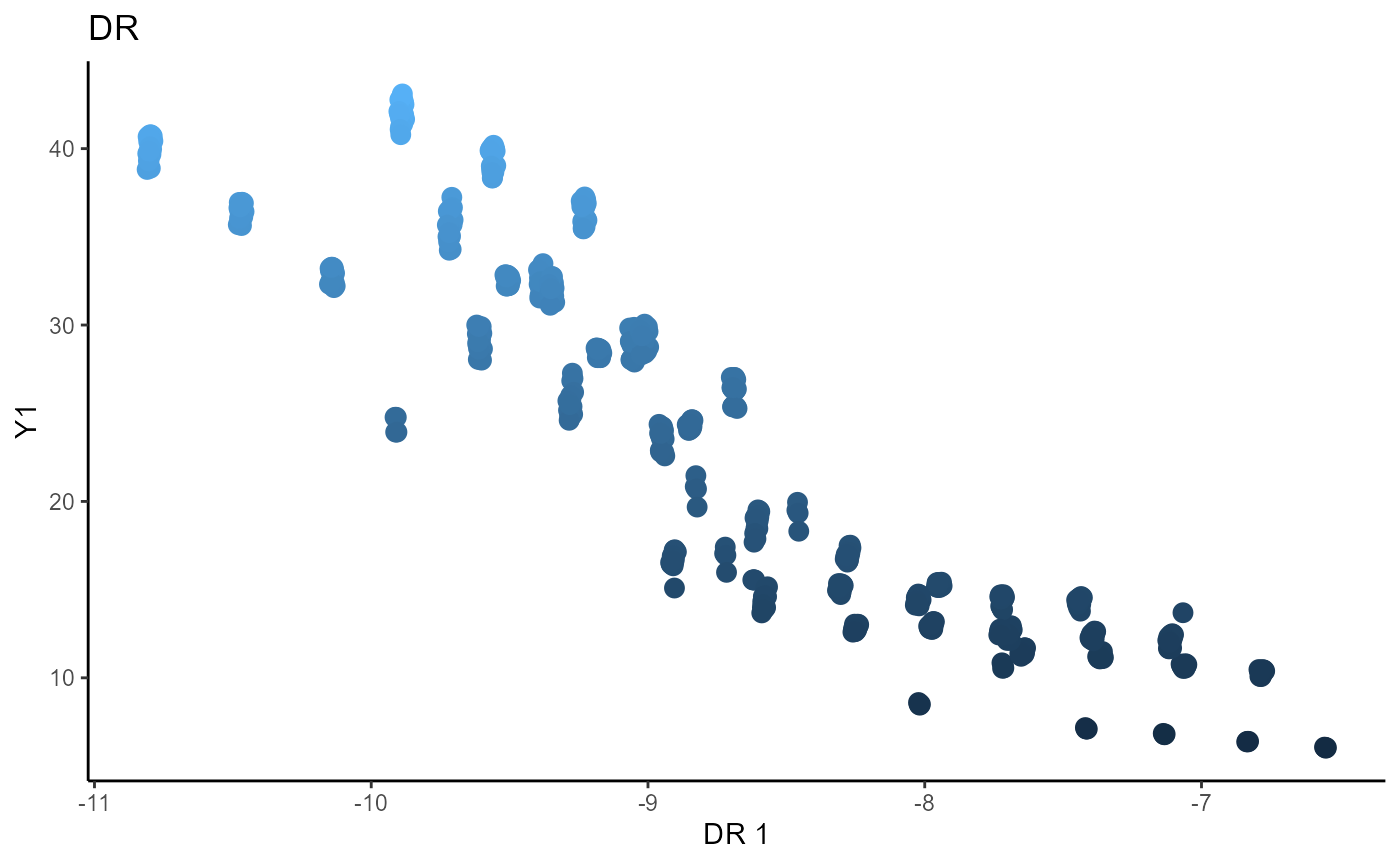
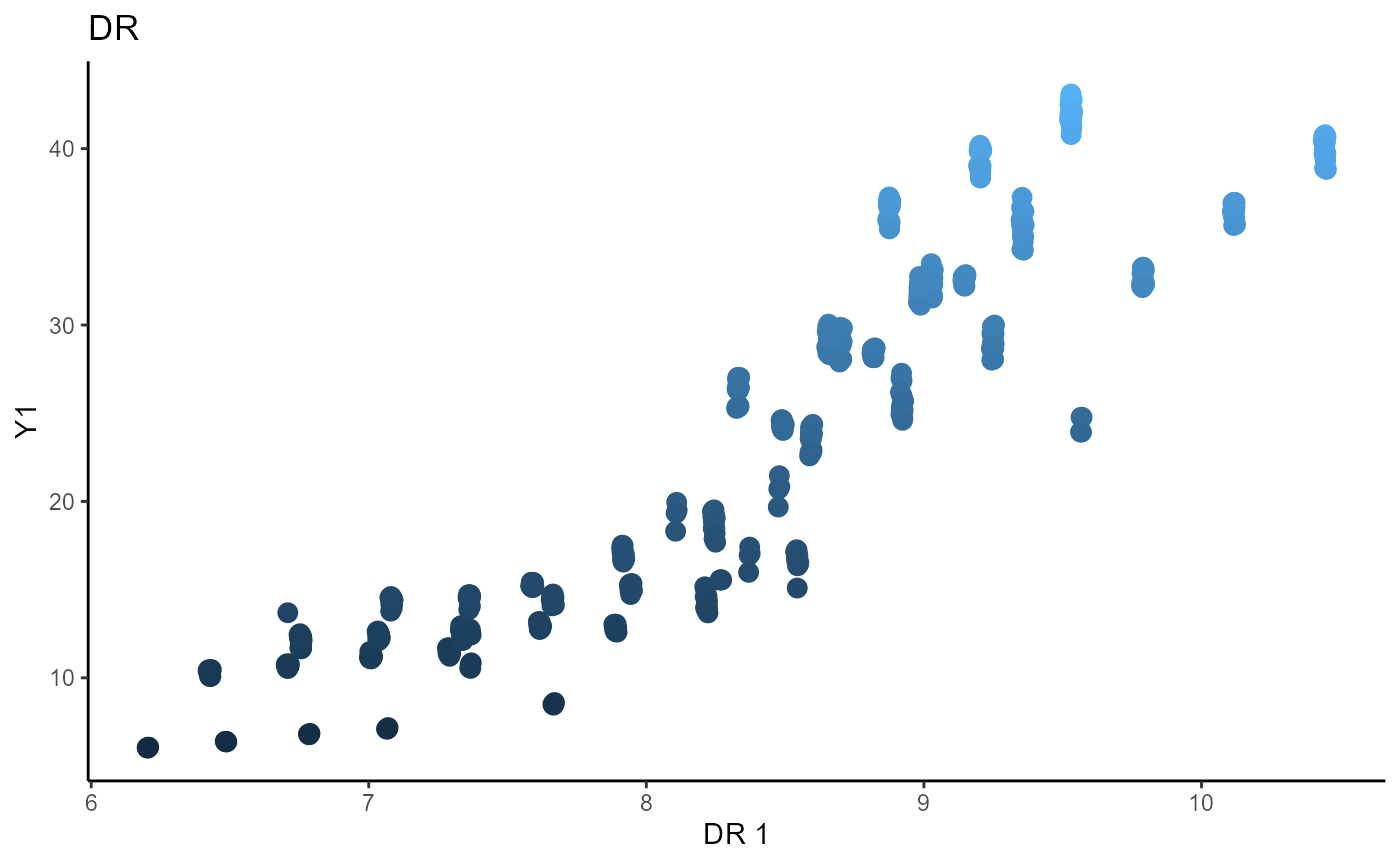
updating images

diff --git a/docs/articles/sdr_cat.html b/docs/articles/sdr_cat.html
@@ -200,53 +200,60 @@
 <div class="section level3">
 <h3 id="outer-product-of-canonical-gradients-opcg">Outer Product of Canonical Gradients (OPCG)<a class="anchor" aria-label="anchor" href="#outer-product-of-canonical-gradients-opcg"></a>
 </h3>
+<div class="hidden">
+<div class="sourceCode" id="cb6"><pre class="downlit sourceCode r">
+<code class="sourceCode R"><span class="co"># OPG Estimate </span>
+
+<span class="fu"><a href="https://rdrr.io/r/base/load.html" class="external-link">load</a></span><span class="op">(</span><span class="st">'opcg_pendigit_made_est.Rdata'</span><span class="op">)</span>
+<span class="va">b_hat_opcg1</span> <span class="op">=</span> <span class="va">B_hat_opcg</span>
+<span class="va">b_hat_made1</span> <span class="op">=</span> <span class="va">B_hat_made</span></code></pre></div>
+</div>
 <p>For OPCG, we use a Gaussian kernel for the local linear weights and standardize the predictors so that the kernel choice is more appropriate. The bandwidth is set to <span class="math inline">\(1.42\)</span> using the Tuning method for OPCG proposed in the paper. We parallelize the computation to make OPCG relatively competitive with the inverse methods in terms of computation. For convenience, we set <span class="math inline">\(d=9\)</span>; this has no effect on the estimation. The code is not run due to the compiling speed for this site.</p>
 <!-- ![](../man/figures/cat/ex1_opcg1.png) -->
 <!-- ![](../man/figures/cat/ex1_opcg2.png) -->
 <!-- ![](../man/figures/cat/ex1_opcg3.png) -->
-<div class="sourceCode" id="cb6"><pre class="downlit sourceCode r">
+<div class="sourceCode" id="cb7"><pre class="downlit sourceCode r">
 <code class="sourceCode R"><span class="co"># OPG Estimate </span>
 
  
-<span class="co"># X1_std=(sapply(1:dim(X1)[2], FUN= function(j)</span>
-<span class="co">#   center_cpp(X1[,j], NULL) ) )%*%matpower_cpp(cov((X1)) , -1/2);</span>
-<span class="co"># </span>
-<span class="co"># X1_test_std=(sapply(1:dim(X1_test)[2], FUN= function(j)</span>
-<span class="co">#   center_cpp(X1_test[,j], NULL) ) )%*%matpower_cpp(cov((X1_test)) , -1/2);</span>
-<span class="co"># </span>
-<span class="co"># </span>
-<span class="co"># </span>
+<span class="va">X1_std</span><span class="op">=</span><span class="op">(</span><span class="fu"><a href="https://rdrr.io/r/base/lapply.html" class="external-link">sapply</a></span><span class="op">(</span><span class="fl">1</span><span class="op">:</span><span class="fu"><a href="https://rdrr.io/r/base/dim.html" class="external-link">dim</a></span><span class="op">(</span><span class="va">X1</span><span class="op">)</span><span class="op">[</span><span class="fl">2</span><span class="op">]</span>, FUN<span class="op">=</span> <span class="kw">function</span><span class="op">(</span><span class="va">j</span><span class="op">)</span>
+  <span class="fu">center_cpp</span><span class="op">(</span><span class="va">X1</span><span class="op">[</span>,<span class="va">j</span><span class="op">]</span>, <span class="cn">NULL</span><span class="op">)</span> <span class="op">)</span> <span class="op">)</span><span class="op"><a href="https://rdrr.io/r/base/matmult.html" class="external-link">%*%</a></span><span class="fu">matpower_cpp</span><span class="op">(</span><span class="fu"><a href="https://rdrr.io/r/stats/cor.html" class="external-link">cov</a></span><span class="op">(</span><span class="op">(</span><span class="va">X1</span><span class="op">)</span><span class="op">)</span> , <span class="op">-</span><span class="fl">1</span><span class="op">/</span><span class="fl">2</span><span class="op">)</span>;
+
+<span class="va">X1_test_std</span><span class="op">=</span><span class="op">(</span><span class="fu"><a href="https://rdrr.io/r/base/lapply.html" class="external-link">sapply</a></span><span class="op">(</span><span class="fl">1</span><span class="op">:</span><span class="fu"><a href="https://rdrr.io/r/base/dim.html" class="external-link">dim</a></span><span class="op">(</span><span class="va">X1_test</span><span class="op">)</span><span class="op">[</span><span class="fl">2</span><span class="op">]</span>, FUN<span class="op">=</span> <span class="kw">function</span><span class="op">(</span><span class="va">j</span><span class="op">)</span>
+  <span class="fu">center_cpp</span><span class="op">(</span><span class="va">X1_test</span><span class="op">[</span>,<span class="va">j</span><span class="op">]</span>, <span class="cn">NULL</span><span class="op">)</span> <span class="op">)</span> <span class="op">)</span><span class="op"><a href="https://rdrr.io/r/base/matmult.html" class="external-link">%*%</a></span><span class="fu">matpower_cpp</span><span class="op">(</span><span class="fu"><a href="https://rdrr.io/r/stats/cor.html" class="external-link">cov</a></span><span class="op">(</span><span class="op">(</span><span class="va">X1_test</span><span class="op">)</span><span class="op">)</span> , <span class="op">-</span><span class="fl">1</span><span class="op">/</span><span class="fl">2</span><span class="op">)</span>;
+ 
 <span class="co"># b_hat_opcg1 = opcg(x=X1_std, y=Y1, bw = 1.42, d=9, ytype = "cat",</span>
 <span class="co">#                   method= "cg", parallelize = T )</span>
 <span class="co"># </span>
-<span class="co"># opcg_plot1_1=linearsdr:::ggplot_fsdr(Y1_test, t((X1_test_std)%*%b_hat_opcg1[,c(1,2)]),</span>
-<span class="co">#                                      y_on_axis=F,</span>
-<span class="co">#                                      ytype="multinomial",</span>
-<span class="co">#                                      h_lab='OPCG 1', v_lab='OPCG 2',</span>
-<span class="co">#                                      main_lab= paste0('OPCG'), size=2.5)</span>
-<span class="co"># </span>
-<span class="co"># opcg_plot1_2=linearsdr:::ggplot_fsdr(Y1_test, t((X1_test_std)%*%b_hat_opcg1[,c(2,3)]),</span>
-<span class="co">#                                      y_on_axis=F,</span>
-<span class="co">#                                       ytype="multinomial",</span>
-<span class="co">#                                       h_lab='OPCG 2', v_lab='OPCG 3',</span>
-<span class="co">#                                       main_lab= paste0('OPCG'), size=2.5)</span>
-<span class="co"># </span>
-<span class="co"># opcg_plot1_3=linearsdr:::ggplot_fsdr(Y1_test, t((X1_test_std)%*%b_hat_opcg1[,c(1,3)]),</span>
-<span class="co">#                                      y_on_axis=F,</span>
-<span class="co">#                                       ytype="multinomial",</span>
-<span class="co">#                                       h_lab='OPCG 1', v_lab='OPCG 3',</span>
-<span class="co">#                                       main_lab= paste0('OPCG'), size=2.5)</span>
-<span class="co"># </span>
+
+<span class="fu">linearsdr</span><span class="fu">:::</span><span class="fu">ggplot_fsdr</span><span class="op">(</span><span class="va">Y1_test</span>, <span class="fu"><a href="https://rdrr.io/r/base/t.html" class="external-link">t</a></span><span class="op">(</span><span class="op">(</span><span class="va">X1_test_std</span><span class="op">)</span><span class="op"><a href="https://rdrr.io/r/base/matmult.html" class="external-link">%*%</a></span><span class="va">b_hat_opcg1</span><span class="op">[</span>,<span class="fu"><a href="https://rdrr.io/r/base/c.html" class="external-link">c</a></span><span class="op">(</span><span class="fl">1</span>,<span class="fl">2</span><span class="op">)</span><span class="op">]</span><span class="op">)</span>,
+                                     y_on_axis<span class="op">=</span><span class="cn">F</span>,
+                                     ytype<span class="op">=</span><span class="st">"multinomial"</span>,
+                                     h_lab<span class="op">=</span><span class="st">'OPCG 1'</span>, v_lab<span class="op">=</span><span class="st">'OPCG 2'</span>,
+                                     main_lab<span class="op">=</span> <span class="fu"><a href="https://rdrr.io/r/base/paste.html" class="external-link">paste0</a></span><span class="op">(</span><span class="st">'OPCG'</span><span class="op">)</span>, size<span class="op">=</span><span class="fl">2.5</span><span class="op">)</span>
+
+<span class="fu">linearsdr</span><span class="fu">:::</span><span class="fu">ggplot_fsdr</span><span class="op">(</span><span class="va">Y1_test</span>, <span class="fu"><a href="https://rdrr.io/r/base/t.html" class="external-link">t</a></span><span class="op">(</span><span class="op">(</span><span class="va">X1_test_std</span><span class="op">)</span><span class="op"><a href="https://rdrr.io/r/base/matmult.html" class="external-link">%*%</a></span><span class="va">b_hat_opcg1</span><span class="op">[</span>,<span class="fu"><a href="https://rdrr.io/r/base/c.html" class="external-link">c</a></span><span class="op">(</span><span class="fl">2</span>,<span class="fl">3</span><span class="op">)</span><span class="op">]</span><span class="op">)</span>,
+                                     y_on_axis<span class="op">=</span><span class="cn">F</span>,
+                                      ytype<span class="op">=</span><span class="st">"multinomial"</span>,
+                                      h_lab<span class="op">=</span><span class="st">'OPCG 2'</span>, v_lab<span class="op">=</span><span class="st">'OPCG 3'</span>,
+                                      main_lab<span class="op">=</span> <span class="fu"><a href="https://rdrr.io/r/base/paste.html" class="external-link">paste0</a></span><span class="op">(</span><span class="st">'OPCG'</span><span class="op">)</span>, size<span class="op">=</span><span class="fl">2.5</span><span class="op">)</span>
+
+<span class="fu">linearsdr</span><span class="fu">:::</span><span class="fu">ggplot_fsdr</span><span class="op">(</span><span class="va">Y1_test</span>, <span class="fu"><a href="https://rdrr.io/r/base/t.html" class="external-link">t</a></span><span class="op">(</span><span class="op">(</span><span class="va">X1_test_std</span><span class="op">)</span><span class="op"><a href="https://rdrr.io/r/base/matmult.html" class="external-link">%*%</a></span><span class="va">b_hat_opcg1</span><span class="op">[</span>,<span class="fu"><a href="https://rdrr.io/r/base/c.html" class="external-link">c</a></span><span class="op">(</span><span class="fl">1</span>,<span class="fl">3</span><span class="op">)</span><span class="op">]</span><span class="op">)</span>,
+                                     y_on_axis<span class="op">=</span><span class="cn">F</span>,
+                                      ytype<span class="op">=</span><span class="st">"multinomial"</span>,
+                                      h_lab<span class="op">=</span><span class="st">'OPCG 1'</span>, v_lab<span class="op">=</span><span class="st">'OPCG 3'</span>,
+                                      main_lab<span class="op">=</span> <span class="fu"><a href="https://rdrr.io/r/base/paste.html" class="external-link">paste0</a></span><span class="op">(</span><span class="st">'OPCG'</span><span class="op">)</span>, size<span class="op">=</span><span class="fl">2.5</span><span class="op">)</span>
+
 <span class="co"># linearsdr:::save_sdr_plot(opcg_plot1_1,</span>
 <span class="co">#                           filename = paste0('../man/figures/cat/ex1_opcg1.png'),</span>
 <span class="co">#                           width = 800, height = 450, units = "px", pointsize = 12,</span>
 <span class="co">#                           bg = "white",  res = 125)</span>
-
-
-<span class="fu">knitr</span><span class="fu">::</span><span class="fu"><a href="https://rdrr.io/pkg/knitr/man/include_graphics.html" class="external-link">include_graphics</a></span><span class="op">(</span><span class="st">'../man/figures/cat/ex1_opcg1.png'</span><span class="op">)</span>
-<span class="fu">knitr</span><span class="fu">::</span><span class="fu"><a href="https://rdrr.io/pkg/knitr/man/include_graphics.html" class="external-link">include_graphics</a></span><span class="op">(</span><span class="st">'../man/figures/cat/ex1_opcg2.png'</span><span class="op">)</span>
-<span class="fu">knitr</span><span class="fu">::</span><span class="fu"><a href="https://rdrr.io/pkg/knitr/man/include_graphics.html" class="external-link">include_graphics</a></span><span class="op">(</span><span class="st">'../man/figures/cat/ex1_opcg3.png'</span><span class="op">)</span></code></pre></div>
-<p><img src="../reference/figures/cat/ex1_opcg1.png" width="100%"><img src="../reference/figures/cat/ex1_opcg2.png" width="100%"><img src="../reference/figures/cat/ex1_opcg3.png" width="100%"></p>
+<span class="co"># </span>
+<span class="co"># </span>
+<span class="co"># knitr::include_graphics('../man/figures/cat/ex1_opcg1.png')</span>
+<span class="co"># knitr::include_graphics('../man/figures/cat/ex1_opcg2.png')</span>
+<span class="co"># knitr::include_graphics('../man/figures/cat/ex1_opcg3.png')</span></code></pre></div>
+<p><img src="sdr_cat_files/figure-html/unnamed-chunk-7-1.png" width="700"><img src="sdr_cat_files/figure-html/unnamed-chunk-7-2.png" width="700"><img src="sdr_cat_files/figure-html/unnamed-chunk-7-3.png" width="700"></p>
 </div>
 <div class="section level3">
 <h3 id="minimum-average-variance-estimation-mave">Minimum Average Variance Estimation (MAVE)<a class="anchor" aria-label="anchor" href="#minimum-average-variance-estimation-mave"></a>
@@ -255,7 +262,7 @@
 <!-- ![](../man/figures/cat/ex1_made1.png) -->
 <!-- ![](../man/figures/cat/ex1_made2.png) -->
 <!-- ![](../man/figures/cat/ex1_made3.png) -->
-<div class="sourceCode" id="cb7"><pre class="downlit sourceCode r">
+<div class="sourceCode" id="cb8"><pre class="downlit sourceCode r">
 <code class="sourceCode R"><span class="co"># MAVE Estimate</span>
 
 <span class="co"># The code is commented out to speed up compiling of the documentation. </span>
@@ -301,33 +308,33 @@
 <span class="co"># # Time difference of 3.811436 hours on 39 cores</span>
 <span class="co">#</span>
 <span class="co"># </span>
-<span class="co"># made_plot1_1=linearsdr:::ggplot_fsdr(Y1_test, t((X1_test_std)%*%b_hat_made1[,c(1,2)]),</span>
-<span class="co">#                                      y_on_axis=F,</span>
-<span class="co">#                                      ytype="multinomial",</span>
-<span class="co">#                                      h_lab='MADE 1', v_lab='MADE 2',</span>
-<span class="co">#                                      main_lab= paste0('MADE'), size=2.5)</span>
-<span class="co"># </span>
-<span class="co"># made_plot1_2=linearsdr:::ggplot_fsdr(Y1_test, t((X1_test_std)%*%b_hat_made1[,c(2,3)]),</span>
-<span class="co">#                                      y_on_axis=F,</span>
-<span class="co">#                                       ytype="multinomial",</span>
-<span class="co">#                                       h_lab='MADE 2', v_lab='MADE 3',</span>
-<span class="co">#                                       main_lab= paste0('MADE'), size=2.5)</span>
-<span class="co"># </span>
-<span class="co"># made_plot1_3=linearsdr:::ggplot_fsdr(Y1_test, t((X1_test_std)%*%b_hat_made1[,c(1,3)]),</span>
-<span class="co">#                                      y_on_axis=F,</span>
-<span class="co">#                                       ytype="multinomial",</span>
-<span class="co">#                                       h_lab='MADE 1', v_lab='MADE 3',</span>
-<span class="co">#                                       main_lab= paste0('MADE'), size=2.5)</span>
-<span class="co"># </span>
+<span class="fu">linearsdr</span><span class="fu">:::</span><span class="fu">ggplot_fsdr</span><span class="op">(</span><span class="va">Y1_test</span>, <span class="fu"><a href="https://rdrr.io/r/base/t.html" class="external-link">t</a></span><span class="op">(</span><span class="op">(</span><span class="va">X1_test_std</span><span class="op">)</span><span class="op"><a href="https://rdrr.io/r/base/matmult.html" class="external-link">%*%</a></span><span class="va">b_hat_made1</span><span class="op">[</span>,<span class="fu"><a href="https://rdrr.io/r/base/c.html" class="external-link">c</a></span><span class="op">(</span><span class="fl">1</span>,<span class="fl">2</span><span class="op">)</span><span class="op">]</span><span class="op">)</span>,
+                                     y_on_axis<span class="op">=</span><span class="cn">F</span>,
+                                     ytype<span class="op">=</span><span class="st">"multinomial"</span>,
+                                     h_lab<span class="op">=</span><span class="st">'MADE 1'</span>, v_lab<span class="op">=</span><span class="st">'MADE 2'</span>,
+                                     main_lab<span class="op">=</span> <span class="fu"><a href="https://rdrr.io/r/base/paste.html" class="external-link">paste0</a></span><span class="op">(</span><span class="st">'MADE'</span><span class="op">)</span>, size<span class="op">=</span><span class="fl">2.5</span><span class="op">)</span>
+
+<span class="fu">linearsdr</span><span class="fu">:::</span><span class="fu">ggplot_fsdr</span><span class="op">(</span><span class="va">Y1_test</span>, <span class="fu"><a href="https://rdrr.io/r/base/t.html" class="external-link">t</a></span><span class="op">(</span><span class="op">(</span><span class="va">X1_test_std</span><span class="op">)</span><span class="op"><a href="https://rdrr.io/r/base/matmult.html" class="external-link">%*%</a></span><span class="va">b_hat_made1</span><span class="op">[</span>,<span class="fu"><a href="https://rdrr.io/r/base/c.html" class="external-link">c</a></span><span class="op">(</span><span class="fl">2</span>,<span class="fl">3</span><span class="op">)</span><span class="op">]</span><span class="op">)</span>,
+                                     y_on_axis<span class="op">=</span><span class="cn">F</span>,
+                                      ytype<span class="op">=</span><span class="st">"multinomial"</span>,
+                                      h_lab<span class="op">=</span><span class="st">'MADE 2'</span>, v_lab<span class="op">=</span><span class="st">'MADE 3'</span>,
+                                      main_lab<span class="op">=</span> <span class="fu"><a href="https://rdrr.io/r/base/paste.html" class="external-link">paste0</a></span><span class="op">(</span><span class="st">'MADE'</span><span class="op">)</span>, size<span class="op">=</span><span class="fl">2.5</span><span class="op">)</span>
+
+<span class="fu">linearsdr</span><span class="fu">:::</span><span class="fu">ggplot_fsdr</span><span class="op">(</span><span class="va">Y1_test</span>, <span class="fu"><a href="https://rdrr.io/r/base/t.html" class="external-link">t</a></span><span class="op">(</span><span class="op">(</span><span class="va">X1_test_std</span><span class="op">)</span><span class="op"><a href="https://rdrr.io/r/base/matmult.html" class="external-link">%*%</a></span><span class="va">b_hat_made1</span><span class="op">[</span>,<span class="fu"><a href="https://rdrr.io/r/base/c.html" class="external-link">c</a></span><span class="op">(</span><span class="fl">1</span>,<span class="fl">3</span><span class="op">)</span><span class="op">]</span><span class="op">)</span>,
+                                     y_on_axis<span class="op">=</span><span class="cn">F</span>,
+                                      ytype<span class="op">=</span><span class="st">"multinomial"</span>,
+                                      h_lab<span class="op">=</span><span class="st">'MADE 1'</span>, v_lab<span class="op">=</span><span class="st">'MADE 3'</span>,
+                                      main_lab<span class="op">=</span> <span class="fu"><a href="https://rdrr.io/r/base/paste.html" class="external-link">paste0</a></span><span class="op">(</span><span class="st">'MADE'</span><span class="op">)</span>, size<span class="op">=</span><span class="fl">2.5</span><span class="op">)</span>
+
 <span class="co"># linearsdr:::save_sdr_plot(made_plot1_1,</span>
 <span class="co">#                           filename = paste0('../man/figures/cat/ex1_made1.png'),</span>
 <span class="co">#                           width = 800, height = 450, units = "px", pointsize = 12,</span>
 <span class="co">#                           bg = "white",  res = 125)</span>
-
-<span class="fu">knitr</span><span class="fu">::</span><span class="fu"><a href="https://rdrr.io/pkg/knitr/man/include_graphics.html" class="external-link">include_graphics</a></span><span class="op">(</span><span class="st">'../man/figures/cat/ex1_made1.png'</span><span class="op">)</span>
-<span class="fu">knitr</span><span class="fu">::</span><span class="fu"><a href="https://rdrr.io/pkg/knitr/man/include_graphics.html" class="external-link">include_graphics</a></span><span class="op">(</span><span class="st">'../man/figures/cat/ex1_made2.png'</span><span class="op">)</span>
-<span class="fu">knitr</span><span class="fu">::</span><span class="fu"><a href="https://rdrr.io/pkg/knitr/man/include_graphics.html" class="external-link">include_graphics</a></span><span class="op">(</span><span class="st">'../man/figures/cat/ex1_made3.png'</span><span class="op">)</span></code></pre></div>
-<p><img src="../reference/figures/cat/ex1_made1.png" width="100%"><img src="../reference/figures/cat/ex1_made2.png" width="100%"><img src="../reference/figures/cat/ex1_made3.png" width="100%"></p>
+<span class="co"># </span>
+<span class="co"># knitr::include_graphics('../man/figures/cat/ex1_made1.png')</span>
+<span class="co"># knitr::include_graphics('../man/figures/cat/ex1_made2.png')</span>
+<span class="co"># knitr::include_graphics('../man/figures/cat/ex1_made3.png')</span></code></pre></div>
+<p><img src="sdr_cat_files/figure-html/unnamed-chunk-8-1.png" width="700"><img src="sdr_cat_files/figure-html/unnamed-chunk-8-2.png" width="700"><img src="sdr_cat_files/figure-html/unnamed-chunk-8-3.png" width="700"></p>
 </div>
 </div>
   </div>
